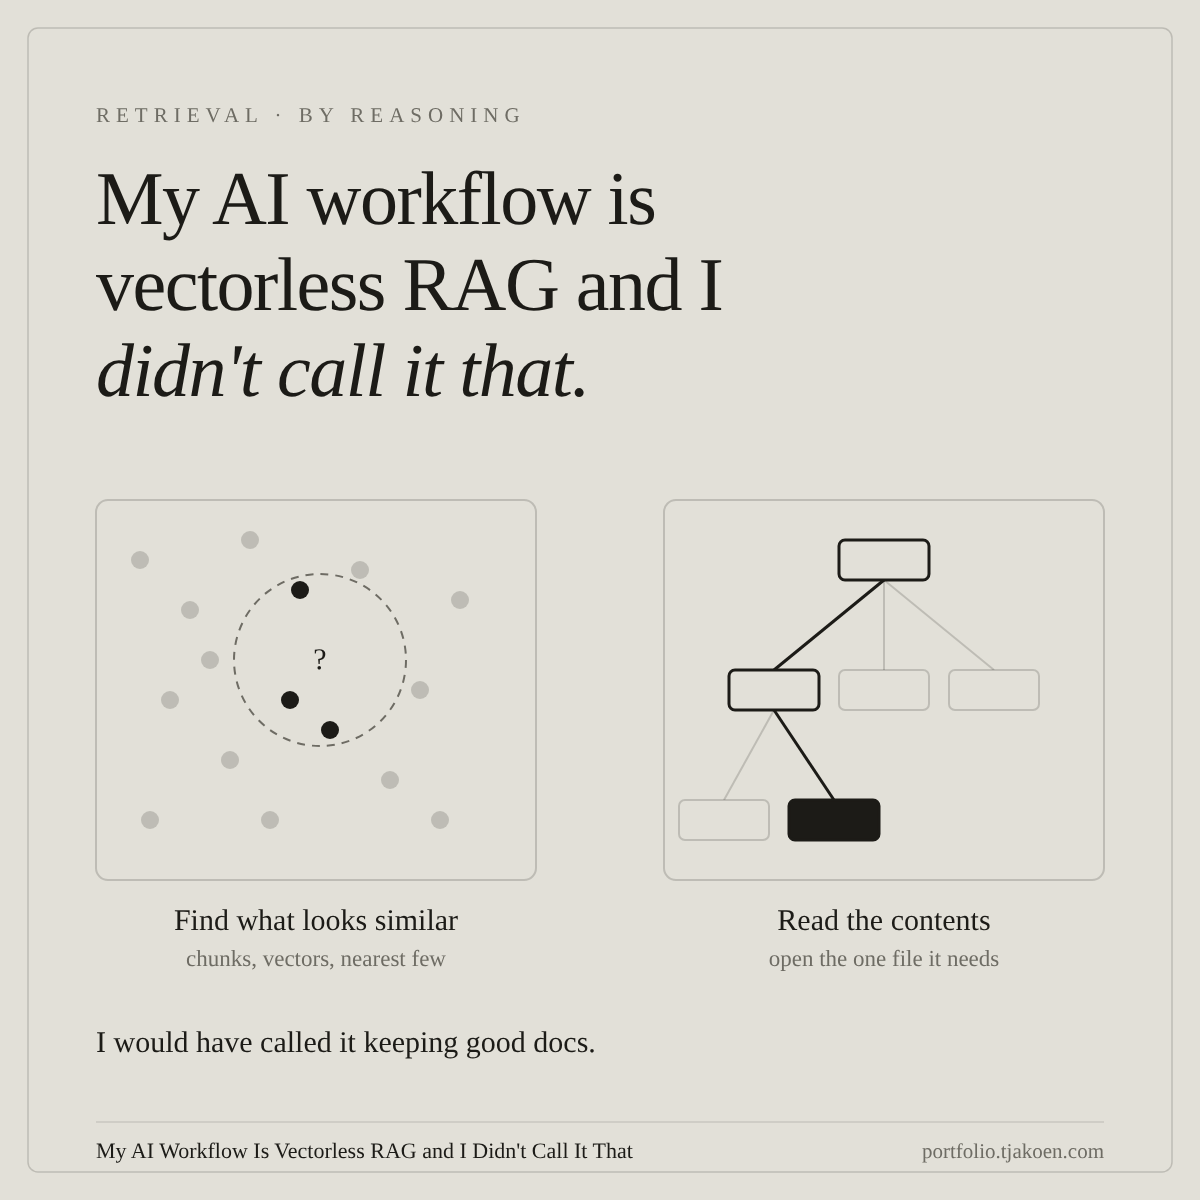
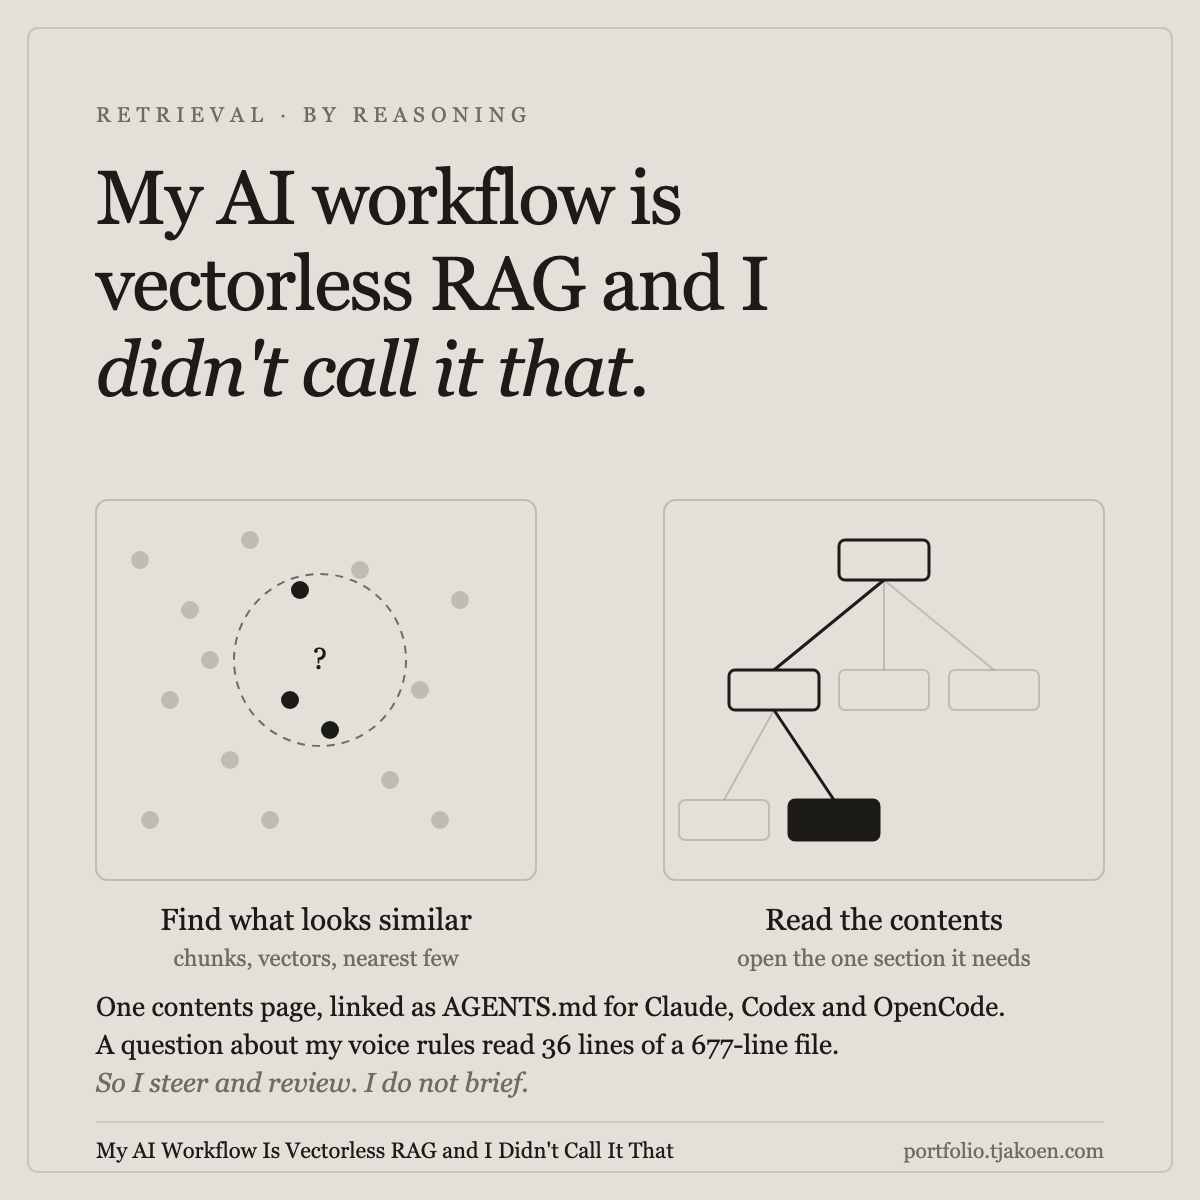
📝 Fix the weak passages in the split notes and redraw the social card
- Turn the backtick walk into a four-step list and split the loop section's closing paragraph
- Trim the companion's summary and pointer so they stop restating each other
- Redraw the card with the AGENTS.md line, the 36-of-677 figure and the steer-and-review point, and update its alt text

diff --git a/tools/social-card-vectorless.ts b/tools/social-card-vectorless.ts
@@ -75,9 +75,11 @@ const card = `<!doctype html><html><head><meta charset="utf-8"><style>
 
     ${tree()}
     <text x="884" y="930" text-anchor="middle" style="fill:${INK};font-size:30px">Read the contents</text>
-    <text x="884" y="966" text-anchor="middle" style="fill:${MUTED};font-size:23px">open the one file it needs</text>
+    <text x="884" y="966" text-anchor="middle" style="fill:${MUTED};font-size:23px">open the one section it needs</text>
 
-    <text x="96" y="1052" style="fill:${INK};font-size:30px">I would have called it keeping good docs.</text>
+    <text x="96" y="1016" style="fill:${INK};font-size:27px">One contents page, linked as AGENTS.md for Claude, Codex and OpenCode.</text>
+    <text x="96" y="1054" style="fill:${INK};font-size:27px">A question about my voice rules read 36 lines of a 677-line file.</text>
+    <text x="96" y="1092" style="fill:${MUTED};font-size:27px;font-style:italic">So I steer and review. I do not brief.</text>
 
     <line x1="96" y1="1122" x2="${W - 96}" y2="1122" style="stroke:${LINE};stroke-width:1"/>
     <text x="96" y="1158" style="fill:${INK};font-size:22px">My AI Workflow Is Vectorless RAG and I Didn't Call It That</text>

diff --git a/content/notes/vectorless-rag-by-accident.md b/content/notes/vectorless-rag-by-accident.md
@@ -34,7 +34,7 @@ social: |
   It is easy to trace and it costs me nothing extra. It also costs more reads, and my notes are still
   a flat pile with no tree.
 socialImage: "/media/notes/vectorless-rag-by-accident-social.png"
-socialImageAlt: "My AI workflow is vectorless RAG and I didn't call it that: on the left a scatter of dots with a ring around the nearest few, labelled find what looks similar; on the right a small tree with one path drawn in ink down to a filled leaf, labelled read the contents, open one file."
+socialImageAlt: "My AI workflow is vectorless RAG and I didn't call it that: on the left a scatter of dots with a ring around the nearest few, labelled find what looks similar; on the right a small tree with one path drawn in ink down to a filled leaf, labelled read the contents, open the one section it needs. Below, three lines: one contents page linked as AGENTS.md for Claude, Codex and OpenCode; a question about my voice rules read 36 lines of a 677-line file; so I steer and review and do not brief."
 ---
 
 My AI has never read my standards. Every session starts blank, whether it is Claude, Codex or
@@ -298,10 +298,15 @@ Each layer gets its own section in the [companion](how-my-sessions-walk-the-tree
 
 ## What one question costs
 
-Here is one real question: can I put a backtick in a note? CLAUDE.md points at the voice standard. The
-skill description says to read it before any prose in my name. The standards index lists its sections.
-The session opens one of them, lines 159 to 194, and the answer is no, not in prose. The
-[companion](how-my-sessions-walk-the-tree.md#one-question-walked-down-the-tree) draws the walk. I traced it by hand from the index, not from a log, so read it as the route the setup allows.
+Here is one real question: can I put a backtick in a note? The session takes four steps:
+
+1. CLAUDE.md points at the voice standard for prose in my name.
+2. The skill description says to read it before any prose with my byline.
+3. The standards index lists its sections, one of them punctuation.
+4. The session opens that section, lines 159 to 194, and the answer is no, not in prose.
+
+I traced it by hand from the index, not from a log, so read it as the route the setup allows. The
+[companion](how-my-sessions-walk-the-tree.md#one-question-walked-down-the-tree) draws it.
 
 <svg viewBox="0 0 620 290" width="100%" role="img"
      aria-label="What one question costs in VOICE.md, which is 677 lines and 49,380 characters. The file is drawn as a strip with one narrow band lit in ink, lines 159 to 194, the punctuation section. Below it, two bars on the same scale. Opening the whole file reads 49,380 characters, a full-width bar. Opening only the section reads 2,848 characters, 5.8 percent, a short ink bar. The point: 94 percent of the file never enters the session."
@@ -347,12 +352,13 @@ The reason is what I no longer do:
   read and the answer is a path. That is [watching its hands](watch-its-hands.md), and a branch it
   chose is a hand I can watch.
 
-So I steer and I review, and I rarely re-explain. That is what I mean by low effort, and it is the
-same loop [one repo after another](one-loop-every-repo.md) runs on. The tree does not make the model
-smarter. It makes the starting line the same every time.
+So I steer and I review, and I rarely re-explain. That is what I mean by low effort. The tree does not
+make the model smarter. It makes the starting line the same every time, on every repo the
+[loop](one-loop-every-repo.md) runs in.
 
-Here is the limit on that claim. It is my experience and not a measurement. I have not timed sessions
-with the tree against sessions without it, and every number in this note measures reading, not effort.
+The limit on that claim: it is my experience and not a measurement. I have not timed sessions with the
+tree against sessions without it, and every number in this note measures reading, not effort.
+
 PANTRY's run ledger records token use by model and plan, so a real comparison could live there. That
 is an idea and not a build.
 

diff --git a/content/notes/how-my-sessions-walk-the-tree.md b/content/notes/how-my-sessions-walk-the-tree.md
@@ -3,7 +3,7 @@ title: "How My Sessions Walk the Tree: graphify, tokensave and PANTRY"
 audience: [build]
 level: deep
 companion: true
-subtitle: "The tool-by-tool half of my vectorless RAG setup: how a session steps through skills, two code graphs and a project index to reach one section instead of a whole file."
+subtitle: "How a session steps through skills, two code graphs and a project index to reach one section instead of a whole file."
 author: "Tjakoen Stolk"
 status: DRAFT
 type: note
@@ -11,15 +11,13 @@ date: 2026-11-26
 readingTime: "~6 min"
 tags: [ai, retrieval, tooling, graphify, tokensave, pantry]
 summary: >
-  The companion to my vectorless RAG note. It draws the usual similarity steps, then shows each layer
-  of the tree my sessions walk: standards mounted as skills, graphify and tokensave for code questions,
-  and PANTRY's index for the project. It ends with a decision chain for what to build, what has landed
-  since the first draft, and the counts behind every figure.
+  The tool-by-tool half of my vectorless RAG setup: the usual similarity steps drawn out, each layer of
+  the tree my sessions walk, a decision chain for what to build, and what has landed since the first
+  draft.
 ---
 
-> This is the companion to [My AI Workflow Is Vectorless RAG and I Didn't Call It That](vectorless-rag-by-accident.md),
-> which explains RAG, the vectorless kind and what the setup does for the loop. This one is the
-> tool-by-tool half, for the reader who wants to see how it is wired.
+> The companion to [My AI Workflow Is Vectorless RAG and I Didn't Call It That](vectorless-rag-by-accident.md).
+> Read that one first. This is the part for the reader who wants to see how it is wired.
 
 ## The usual way, step by step
 
